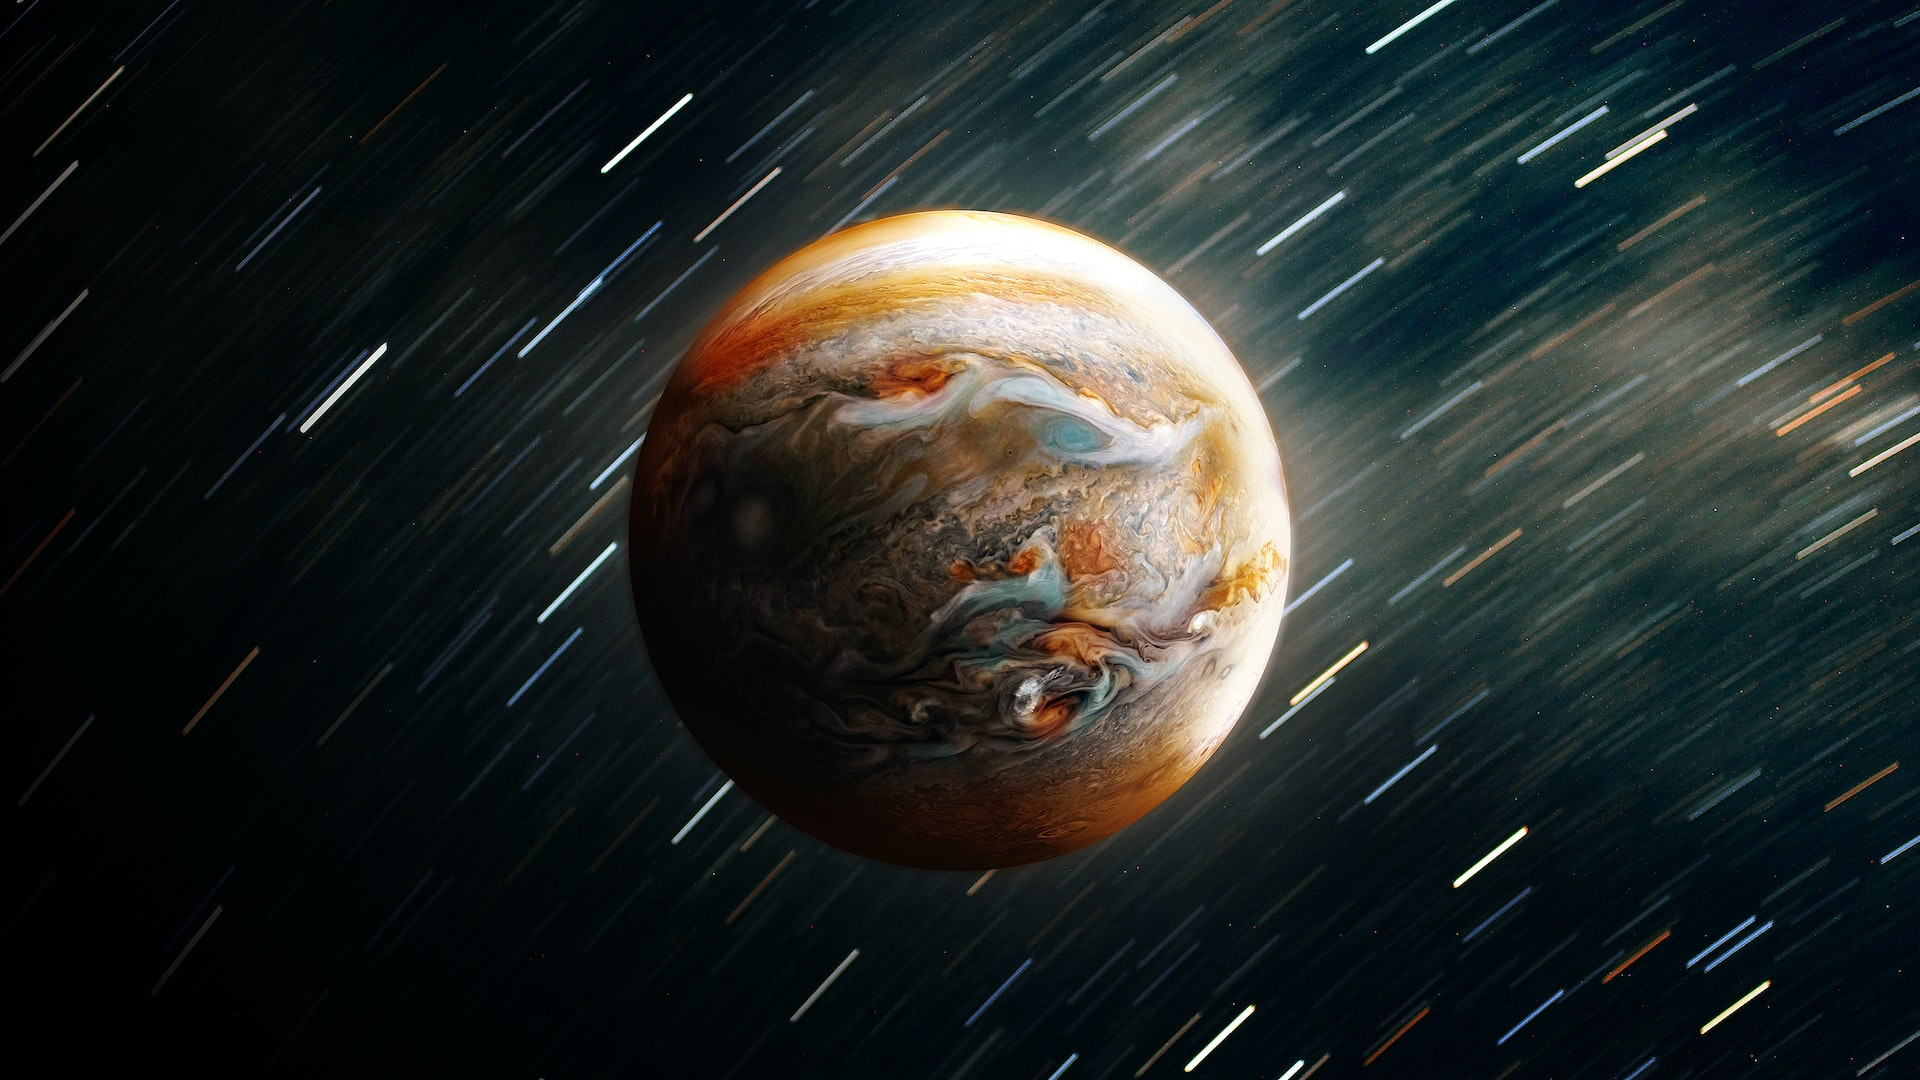
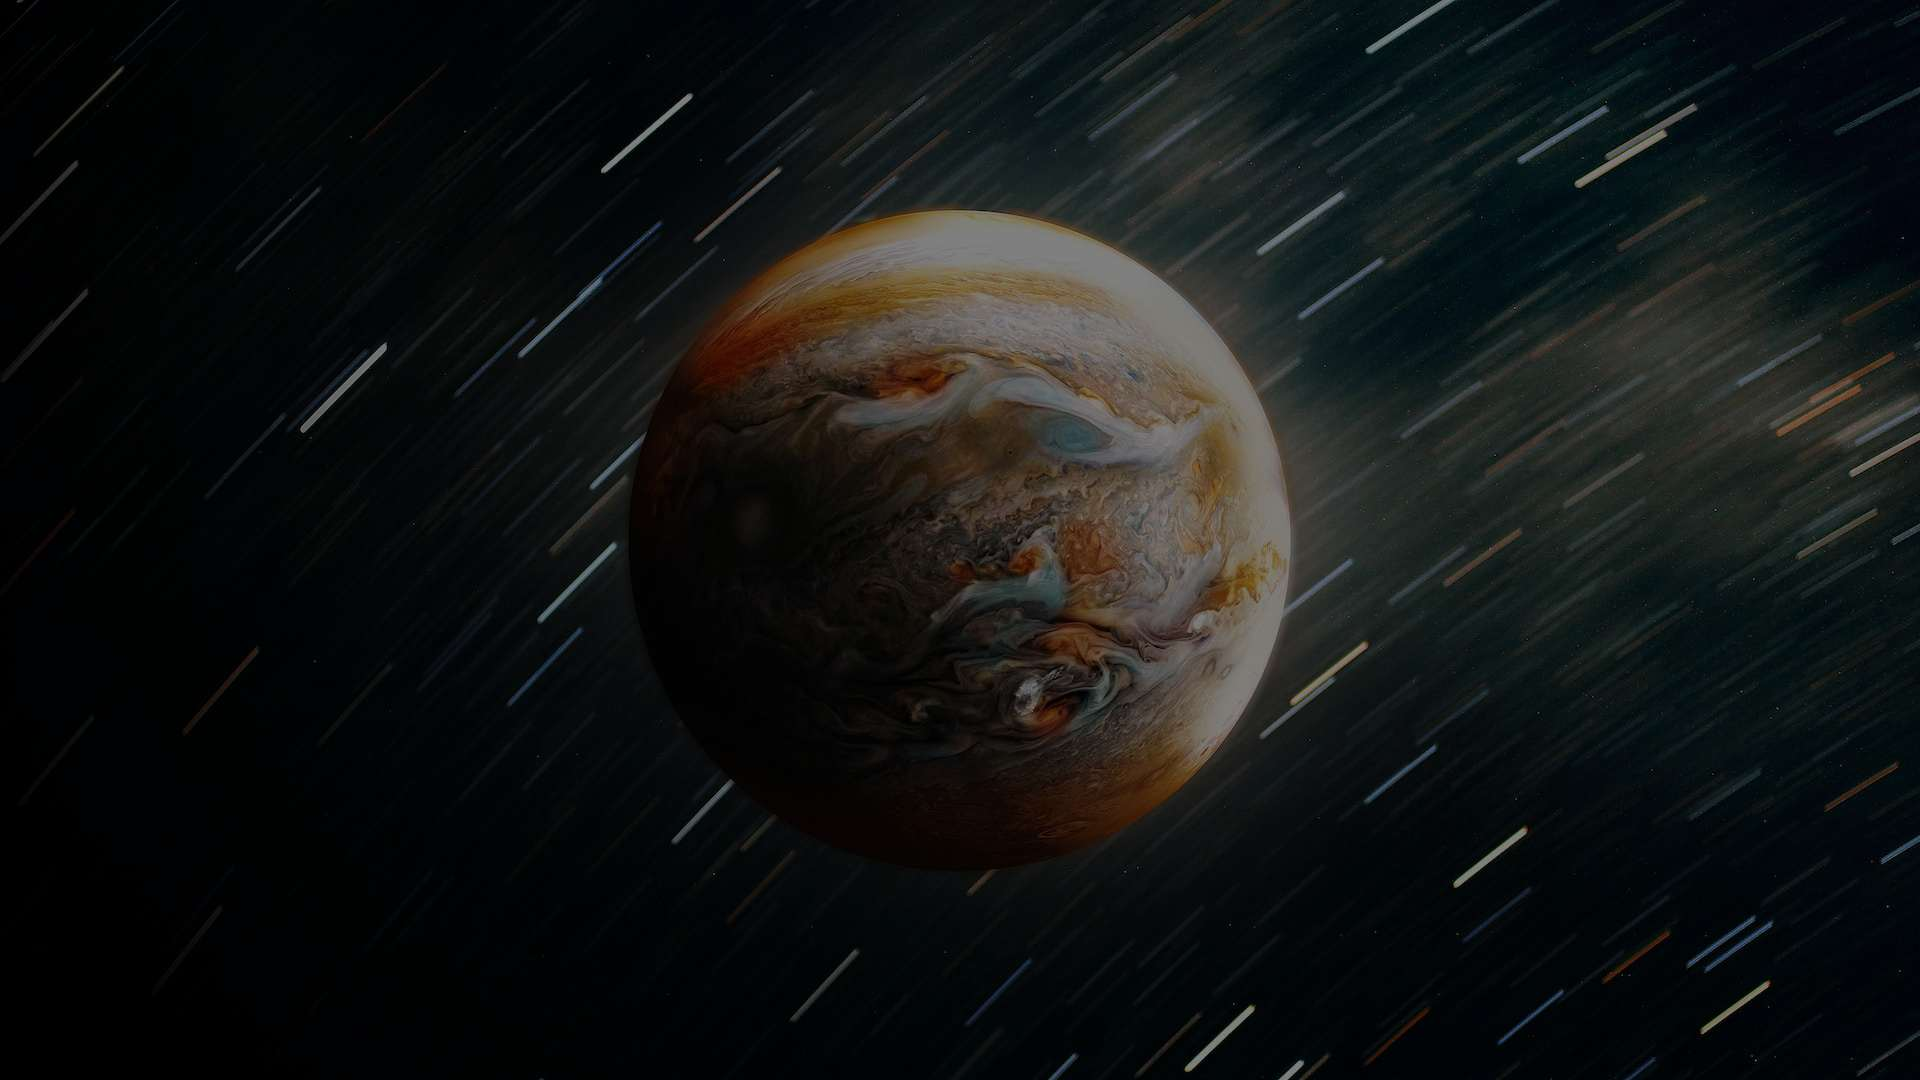
added header tilte

diff --git a/index.html b/index.html
@@ -1,12 +1,54 @@
+<!-- 
+!!!!!! Important !!!!!!!
+Please, do not edit or add code on the index html file without permission.
+This file is not allowed to edit without permission.
+
+Steps to contribute 
+1. Please make your file on the content-html folder with our given template 
+2. Make your own git branch to add edition functionality
+
+ -->
+
 <!DOCTYPE html>
+
 <html lang="en">
+
 <head>
     <meta charset="UTF-8">
     <meta http-equiv="X-UA-Compatible" content="IE=edge">
     <meta name="viewport" content="width=device-width, initial-scale=1.0">
     <title>Project Jupiter</title>
+    <link href="https://cdn.jsdelivr.net/npm/bootstrap@5.3.0-alpha1/dist/css/bootstrap.min.css" rel="stylesheet"
+        integrity="sha384-GLhlTQ8iRABdZLl6O3oVMWSktQOp6b7In1Zl3/Jr59b6EGGoI1aFkw7cmDA6j6gD" crossorigin="anonymous">
+    <link rel="stylesheet" href="css/style.css">
 </head>
+
 <body>
-    
+
+    <main id="top-banner">
+        <!-- Header section start from here -->
+        <header id="header">
+            <div class="container">
+            <div class="landing-text text-white">
+                <h1 class="text-white title">
+                    Welcome to the Project Jupiter
+                </h1>
+                <h3>Why to code?</h3>
+                <ul >
+                    <li>Code is the foundation of nearly every aspect of our lives, from the apps we use on our phones to the systems that keep our world running smoothly.</li>
+                    <li>As a programmer, you'll have the skills to create and build anything you can imagine. You'll also have the chance to solve complex problems and make a real impact on the world.</li>
+                    <li> With the right skills, you'll be able to work in a wide variety of industries and roles, from software development to data analysis to machine learning.</li>
+                    <li>Mastering a new skill is always rewarding, and the sense of pride and satisfaction you'll feel after successfully completing a project will be worth all the hard work.</li>
+                    <li>Learning to code can seem intimidating, but it's important to remember that everyone starts somewhere. Encourage them to start small and take things one step at a time.</li>
+                </ul>
+            </div>
+        </div>
+        </header>
+    </main>
+
+
+
+    <script src="js/app.js"></script>
 </body>
+
 </html>

diff --git a/css/style.css b/css/style.css
@@ -1,0 +1,26 @@
+/* Website font import */
+@import url('https://fonts.googleapis.com/css2?family=Exo+2:ital,wght@0,300;0,400;0,600;0,700;0,800;1,300;1,400&display=swap');
+body{
+    font-family: 'Exo 2', sans-serif;
+}
+/* header css start from here */
+#top-banner{
+    width: 100%;
+    height: 100vh;
+    background-image: url(/images/stock4.jpg);
+    background-position: center;
+    background-size: cover;
+    background-repeat: no-repeat;
+    position: relative;
+    z-index: -1;
+}
+.title{
+    padding-top: 50px;
+    font-size: 2.2rem;
+}
+
+
+
+
+
+
